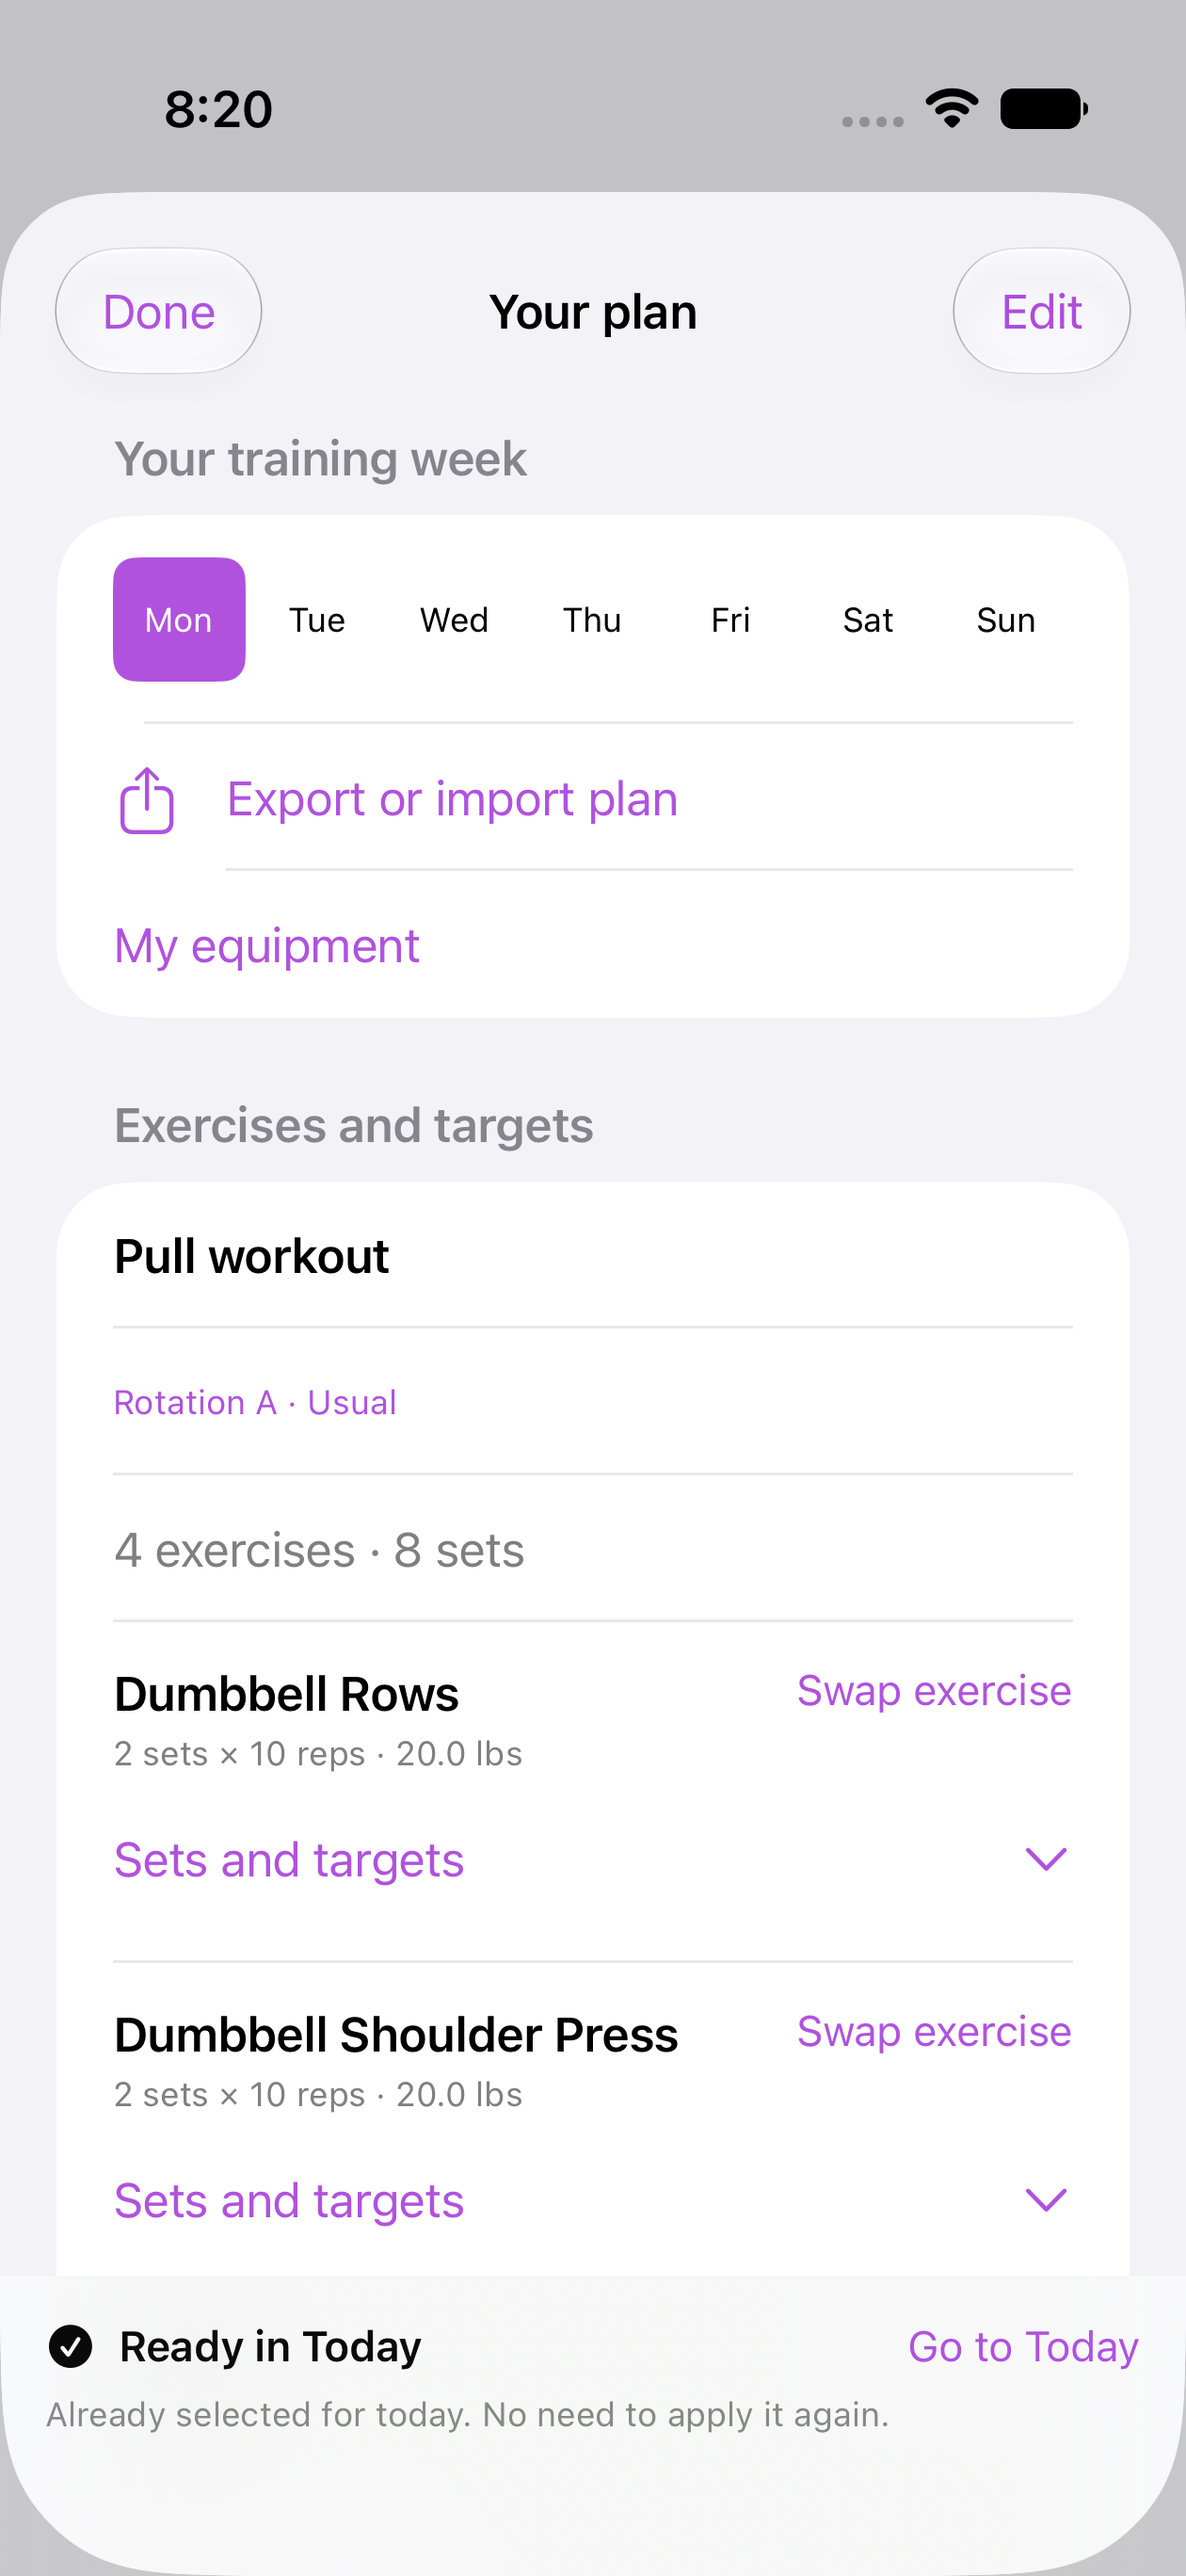
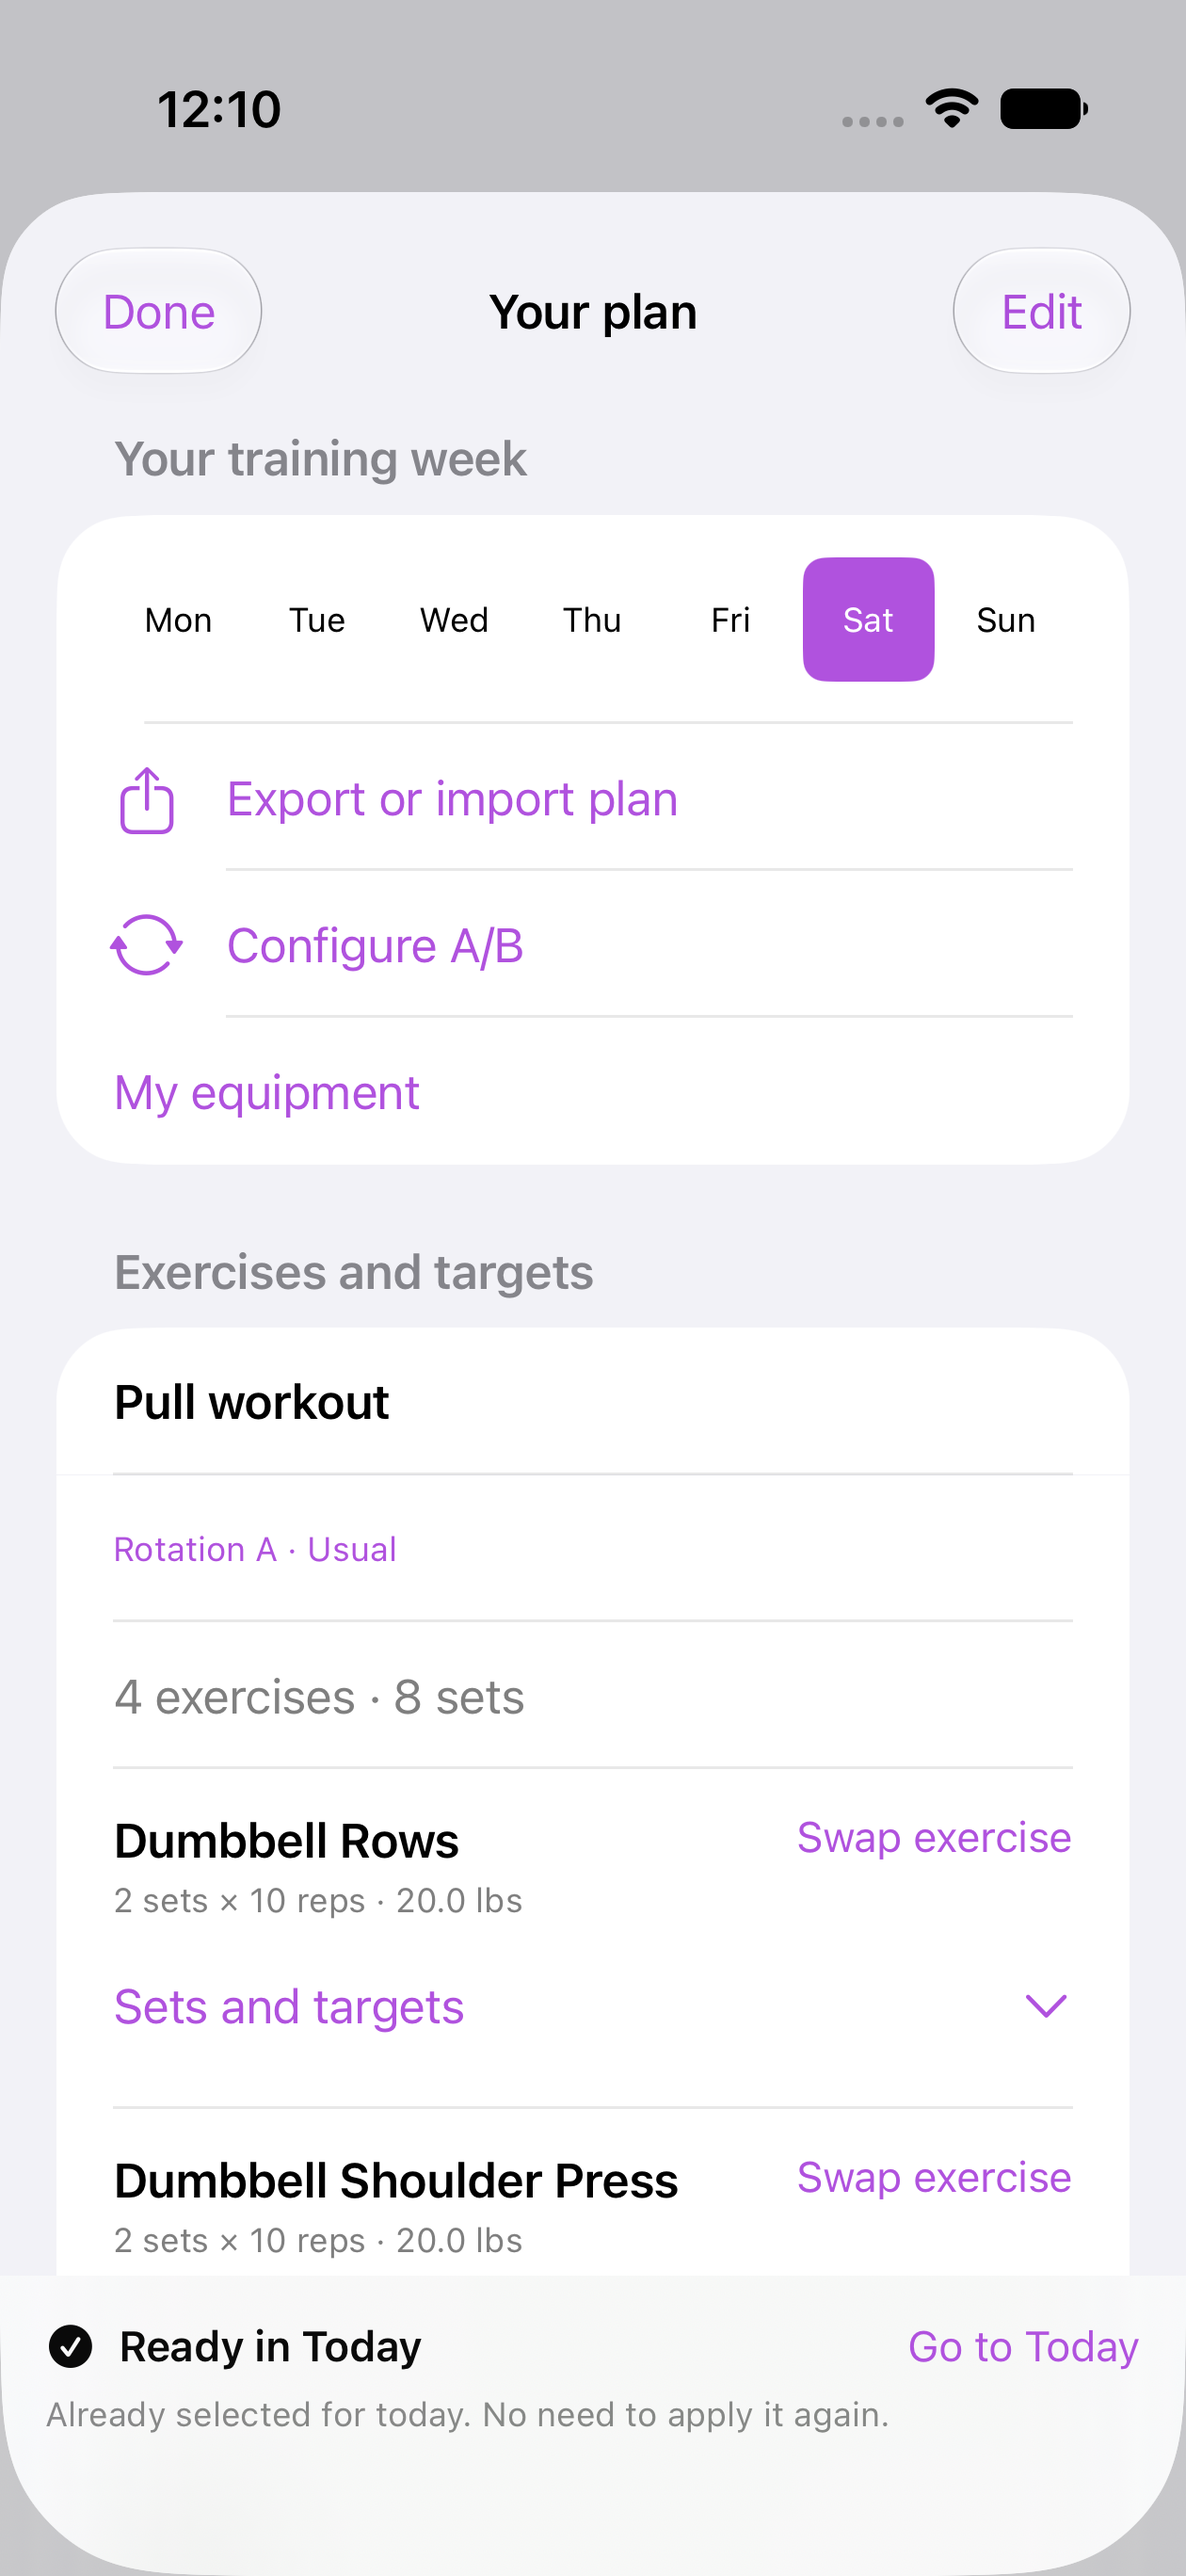
Refresh screenshots for Gain 1.3.19

diff --git a/index.html b/index.html
@@ -36,7 +36,7 @@ Your next session.</h1>
 <a class="button primary" href="https://apps.apple.com/app/id6749831774">View on App Store ↗</a>
 <a class="button secondary" href="#screens">Explore the app</a>
 </div>
-<p class="release">Screens from the latest tested 1.3.18 release candidate. The current App Store version may differ.</p>
+<p class="release">Screens from the tested 1.3.19 release candidate using demonstration workouts. The current App Store version may differ.</p>
 </div>
 <div class="product" id="screens" data-gallery>
 <a class="gallery-link" href="/fitjournal-website/assets/screenshots-current/01.png" target="_blank" rel="noopener noreferrer" aria-label="Open full-size Gain screenshot">
@@ -46,7 +46,7 @@ Your next session.</h1>
 <div class="gallery-controls" aria-label="Choose an app screen">
 <button type="button" data-image="/fitjournal-website/assets/screenshots-current/01.png" data-alt="Gain: Today" data-caption="Today — Your next workout, ready to start." aria-pressed="true">Today</button>
 <button type="button" data-image="/fitjournal-website/assets/screenshots-current/02.png" data-alt="Gain: Weekly plan" data-caption="Weekly plan — Review days, exercises and targets." aria-pressed="false">Weekly plan</button>
-<button type="button" data-image="/fitjournal-website/assets/screenshots-current/03.png" data-alt="Gain: Review adjustments" data-caption="Review adjustments — Check a proposed change before applying it." aria-pressed="false">Review adjustments</button>
+<button type="button" data-image="/fitjournal-website/assets/screenshots-current/03.png" data-alt="Gain: Swap exercise" data-caption="Swap exercise — Browse the catalog and review equipment." aria-pressed="false">Swap exercise</button>
 </div>
 </div>
 </section>
